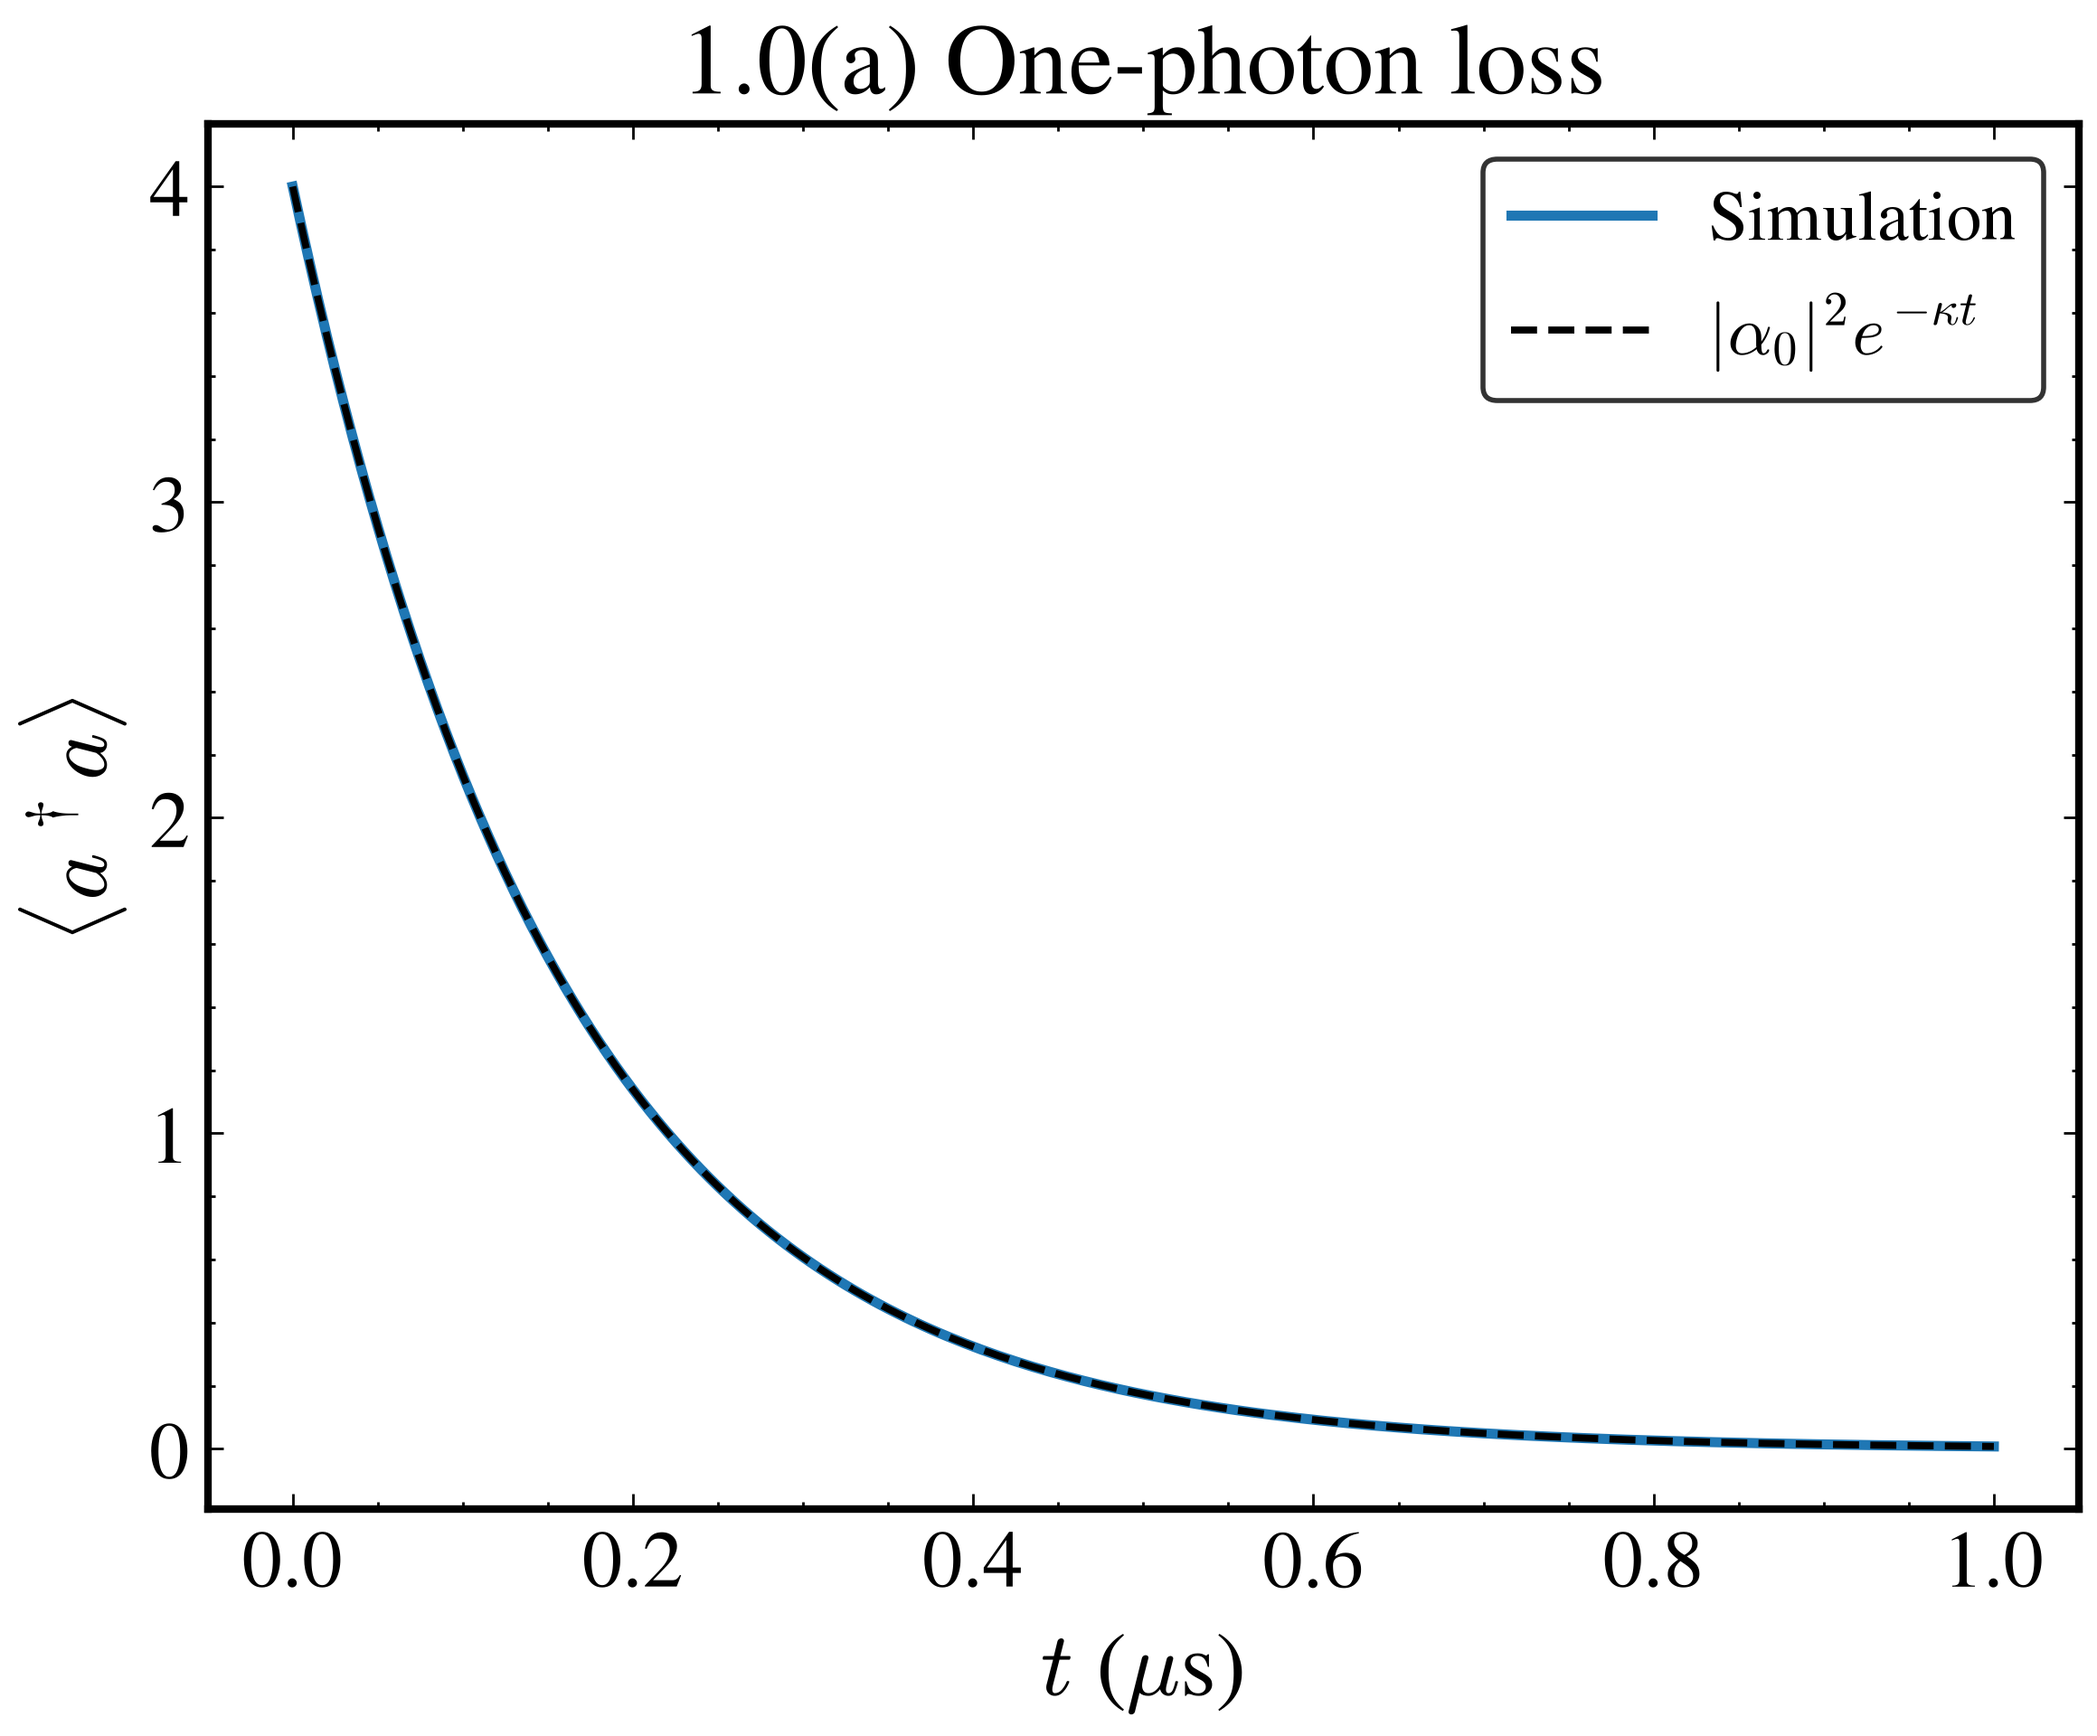
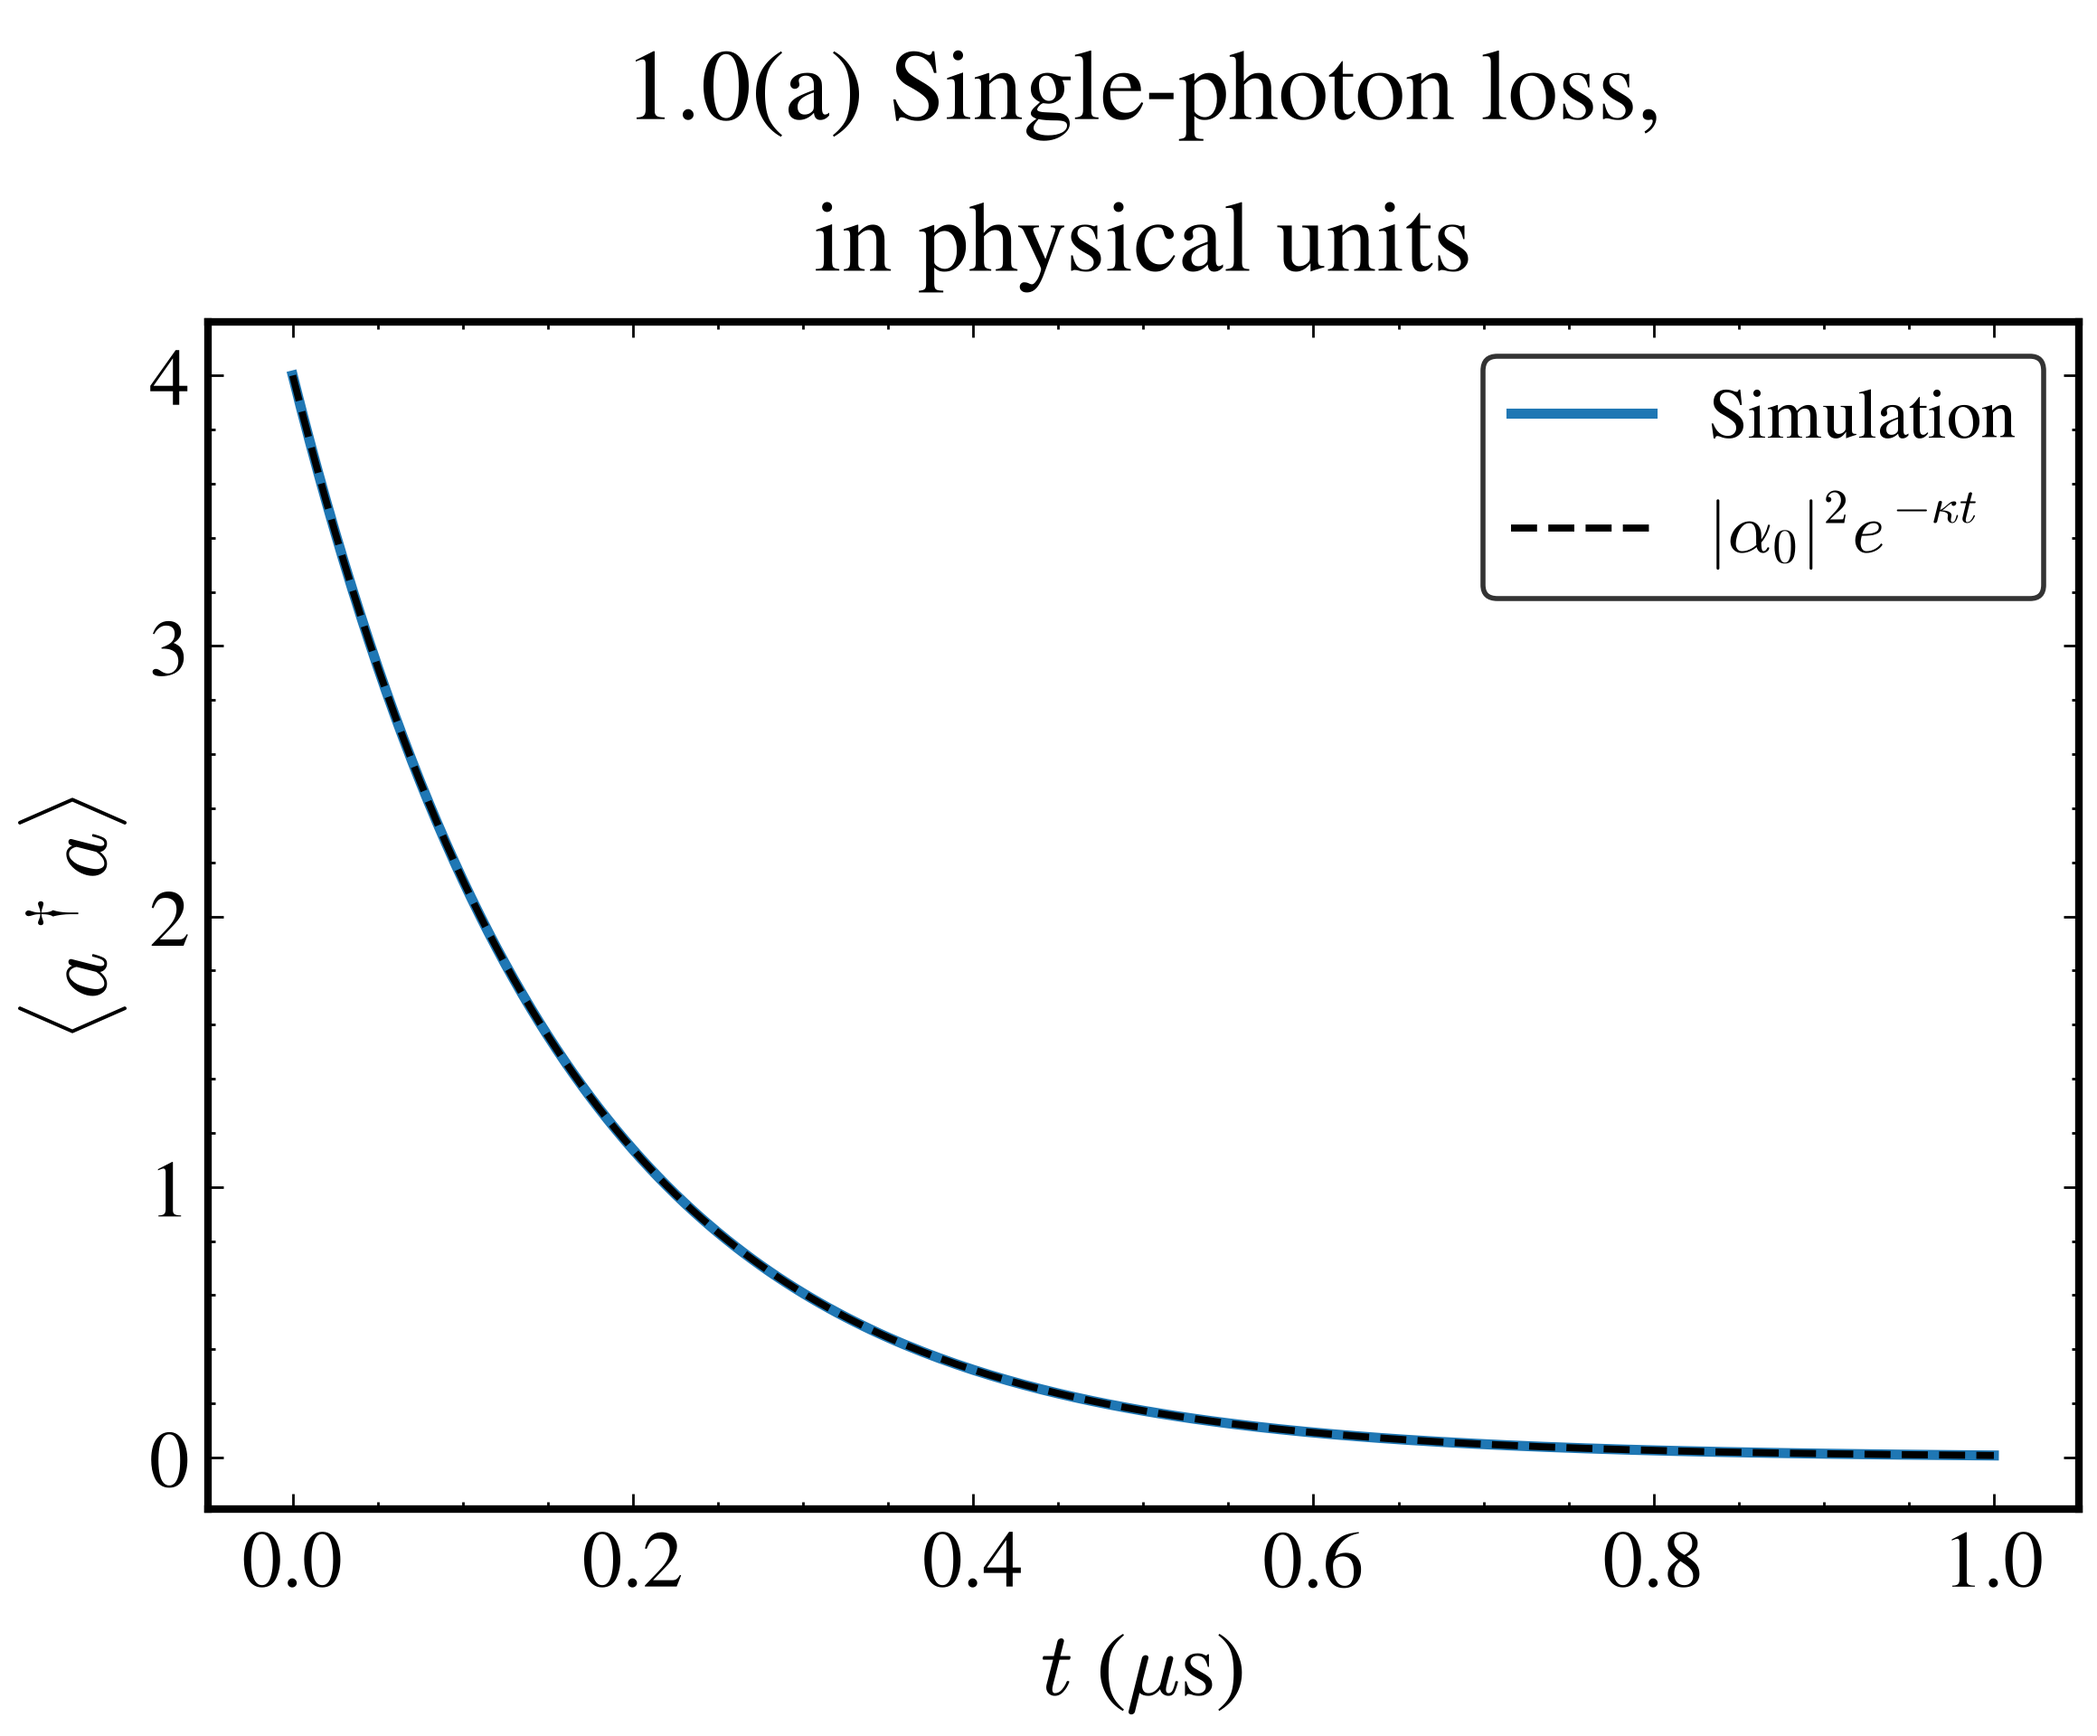
Use the challenge prompt's Task 1.0 titles

diff --git a/scripts/task1_0_warmup.py b/scripts/task1_0_warmup.py
@@ -93,14 +93,14 @@ print(f'(a) max |n_sim - n_exact| = {jnp.max(jnp.abs(n_a - n_a_exact)):.2e}, '
 fig, ax = plt.subplots(figsize=(6, 5), dpi=300)
 ax.plot(t_a, n_a, color=COLORS[0], lw=2, label='Simulation')
 ax.plot(t_a, n_a_exact, 'k--', lw=1.4, label=r'$|\alpha_0|^2 e^{-\kappa t}$')
-style(ax, r'$t$ ($\mu$s)', r'$\langle a^\dagger a \rangle$', '1.0(a) One-photon loss')
+style(ax, r'$t$ ($\mu$s)', r'$\langle a^\dagger a \rangle$', '1.0(a) Single-photon loss,\nin physical units')
 plt.tight_layout()
 save(fig, 'task1_0a_photon_number.png')
 
 snap_a = [0.0, 0.1, 0.2, 0.3, 0.4, 0.5]
 idx = [int(round(t / (t_a[1] - t_a[0]))) for t in snap_a]
 wigner_mosaic([res_a.states[i] for i in idx], snap_a, 'task1_0a_wigner.png',
-              r'1.0(a) Wigner function, circle at $\alpha_0 e^{-(i\Delta + \kappa/2)t}$',
+              r'1.0(a) Single-photon loss, in physical units. Wigner function, circle at $\alpha_0 e^{-(i\Delta + \kappa/2)t}$',
               xmax=3.0, centers=[center_a[i] for i in idx], path=center_a)
 
 # (b) pure two-photon loss
@@ -115,7 +115,7 @@ print(f'(b) n(1 us) = {n_b[-1]:.6f}, analytic plateau = {n_b_exact:.6f}, '
 fig, ax = plt.subplots(figsize=(6, 5), dpi=300)
 ax.plot(t_b, n_b, color=COLORS[0], lw=2, label='Simulation')
 ax.axhline(n_b_exact, color='k', ls='--', lw=1.4, label=r'$(1 - e^{-2|\alpha_0|^2})/2$')
-style(ax, r'$t$ ($\mu$s)', r'$\langle a^\dagger a \rangle$', '1.0(b) Two-photon loss')
+style(ax, r'$t$ ($\mu$s)', r'$\langle a^\dagger a \rangle$', '1.0(b) Pure two-photon loss')
 plt.tight_layout()
 save(fig, 'task1_0b_photon_number.png')
 
@@ -135,14 +135,14 @@ fig, ax = plt.subplots(figsize=(6, 5), dpi=300)
 for k, (s, lab) in enumerate(zip(scales, [r'$\kappa_2/4$', r'$\kappa_2$', r'$4\kappa_2$'])):
     ax.plot(t_c, n_c[k], color=COLORS[k], lw=2, label=lab)
 ax.axhline(alpha**2, color='k', ls='--', lw=1.4, label=r'$\alpha^2$')
-style(ax, r'$t$ ($\mu$s)', r'$\langle a^\dagger a \rangle$', '1.0(c) Two-photon stabilization')
+style(ax, r'$t$ ($\mu$s)', r'$\langle a^\dagger a \rangle$', '1.0(c) Stabilization:\ntwo-photon loss + two-photon drive')
 plt.tight_layout()
 save(fig, 'task1_0c_photon_number.png')
 
 snap_c = [0.0, 0.02, 0.05, 0.1, 0.3, 2.0]
 idx = [int(round(t / (t_c[1] - t_c[0]))) for t in snap_c]
 wigner_mosaic([res_c.states[1, i] for i in idx], snap_c, 'task1_0c_wigner.png',
-              r'1.0(c) Wigner function at nominal $\kappa_2$', xmax=3.5)
+              r'1.0(c) Stabilization: two-photon loss + two-photon drive. Wigner function at nominal $\kappa_2$', xmax=3.5)
 
 np.savez(RESULTS / 'task1_0.npz', t_a=t_a, n_a=n_a, n_a_exact=n_a_exact, fid_a=fid_a,
          t_b=t_b, n_b=n_b, t_c=t_c, n_c=n_c, kappa2_scales=scales, kappa2=kappa2)

diff --git a/README.md b/README.md
@@ -4,11 +4,11 @@ Simulations for the Alice & Bob cat qubit challenge (`ChallengePrompt.md`), done
 
 Run `uv sync`, then `uv run python scripts/task1_0_warmup.py`. Figures go to `plots/` and raw arrays to `results/task1_0.npz`. Task 1.0 runs in about 20 s on a CPU.
 
-## Task 1.0 warm-up on the memory alone
+## Task 1.0: Warm-up — adding dissipation one ingredient at a time
 
 All three parts use one mode truncated at $N = 30$ Fock states. The two-photon rate is $\kappa_2 = 4g_2^2/\kappa_b = 2\pi \times 0.896$ MHz, from $g_2/2\pi = 0.763$ MHz and $\kappa_b/2\pi = 2.6$ MHz. In the Wigner plots a coherent state $|\alpha\rangle$ sits at $(\mathrm{Re}\,\alpha, \mathrm{Im}\,\alpha)$, and the circles in the 1.0(a) figure, drawn at the analytic center, confirm this convention.
 
-### 1.0(a) One-photon loss
+### (a) Single-photon loss, in physical units
 
 With $H = \Delta a^\dagger a$ and jump operator $\sqrt{\kappa}\,a$, the mean field obeys $d\langle a\rangle/dt = -(i\Delta + \kappa/2)\langle a\rangle$. Because $a|\alpha\rangle = \alpha|\alpha\rangle$, a lost photon leaves a coherent state unchanged, so the state stays coherent and only its amplitude moves,
 
@@ -20,7 +20,7 @@ We take $\Delta/2\pi = \kappa/2\pi = 1$ MHz, $\alpha_0 = 2$ and $0 \le t \le 1$ 
 
 ![1.0(a) Wigner snapshots](plots/task1_0a_wigner.png)
 
-### 1.0(b) Two-photon loss
+### (b) Pure two-photon loss
 
 With $H = 0$ and jump operator $\sqrt{\kappa_2}\,a^2$, photons leave only in pairs. The jump $a^2$ and the no-jump term $a^{\dagger 2} a^2$ both keep the photon-number parity, so every even Fock state ends in $|0\rangle$ and every odd one in $|1\rangle$, the two states that $a^2$ annihilates. The final photon number is therefore the odd-parity weight of the initial state,
 
@@ -32,7 +32,7 @@ The simulation gives $\langle a^\dagger a\rangle = 0.499847$ at 1 µs, $1.5 \tim
 
 ![1.0(b) photon number](plots/task1_0b_photon_number.png)
 
-### 1.0(c) Two-photon stabilization
+### (c) Stabilization: two-photon loss + two-photon drive
 
 The jump operator $\sqrt{\kappa_2}\,(a^2 - \alpha^2)$ removes photon pairs and, through the $-\alpha^2$ term, adds them back. Its dark states are $|\pm\alpha\rangle$, since $a^2|\pm\alpha\rangle = \alpha^2|\pm\alpha\rangle$, so the memory settles in the space they span with $\langle a^\dagger a\rangle \approx \alpha^2 = 4.41$ for $\alpha = 2.1$. This jump operator also keeps parity, so the even vacuum goes to the even cat $(|\alpha\rangle + |-\alpha\rangle)/\mathcal N_+$. The second jump operator $\sqrt{\kappa_a}\,a$, with $\kappa_a/2\pi = 9.3$ kHz, flips the parity at each jump and slowly washes out the fringes.
 
